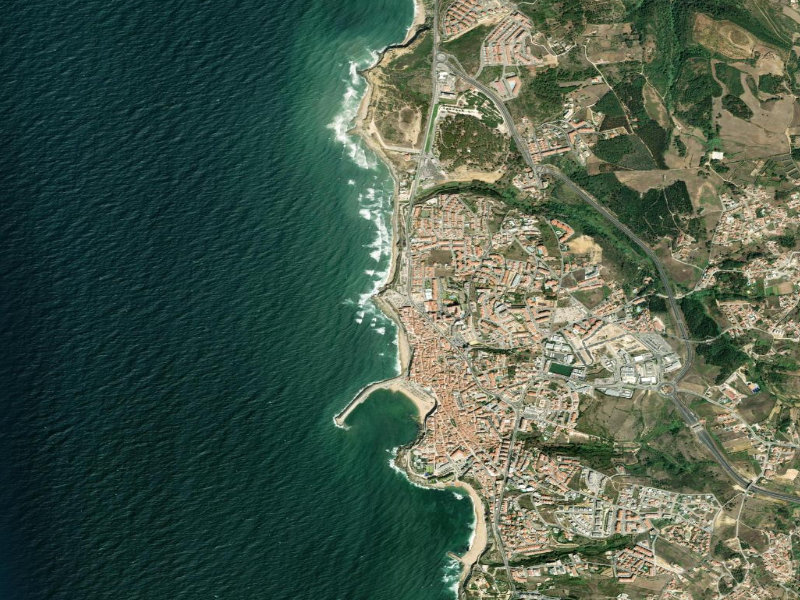
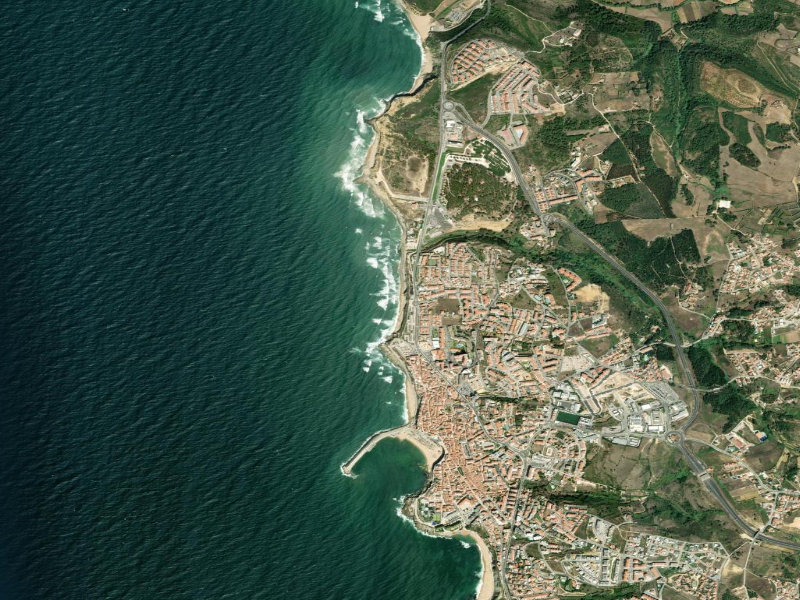
fix(spots): fotos aéreas dos spots novos e movidos da Ericeira
O deploy falhou de 24/10 ~04:20 a 13:35 no smoke critical-routes: a home pedia
/images/spots/calada.jpg (404) quando a Calada entrava no top. Os 4 spots novos
do #301 não tinham foto aérea; os 8 movidos da Ericeira e a lagoa-albufeira
tinham a foto das coordenadas antigas.

- gera as 13 fotos com scripts/generate-spot-aerials.mjs --force --only …
- novo teste spotAerials: todo o spot sem imagem curada tem a foto local

diff --git a/src/lib/__tests__/spotAerials.test.ts b/src/lib/__tests__/spotAerials.test.ts
@@ -1,0 +1,22 @@
+/**
+ * Guarda: cada spot sem imagem curada tem a foto aérea local
+ * (`public/images/spots/{slug}.jpg`, gerada por scripts/generate-spot-aerials.mjs).
+ * Sem ela a home pede um ficheiro que não existe e o smoke do deploy
+ * (critical-routes, «same-origin 404») falha — aconteceu a 24/10 com `calada`.
+ * Ao adicionar ou mover um spot: `node scripts/generate-spot-aerials.mjs --only <slug> --force`.
+ */
+import { existsSync } from 'node:fs';
+import { join } from 'node:path';
+import { describe, expect, it } from 'vitest';
+import { spots } from '@/lib/spots';
+
+describe('fotos aéreas dos spots', () => {
+  it('todos os spots sem imagem curada têm public/images/spots/{slug}.jpg', () => {
+    const dir = join(process.cwd(), 'public', 'images', 'spots');
+    const missing = spots
+      .filter((s) => !s.images?.[0]?.trim())
+      .map((s) => s.slug)
+      .filter((slug) => !existsSync(join(dir, `${slug}.jpg`)));
+    expect(missing, `correr: node scripts/generate-spot-aerials.mjs --only ${missing.join(',')}`).toEqual([]);
+  });
+});
